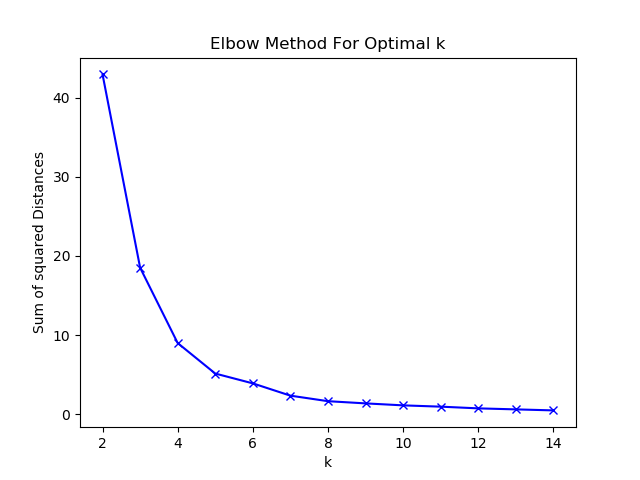
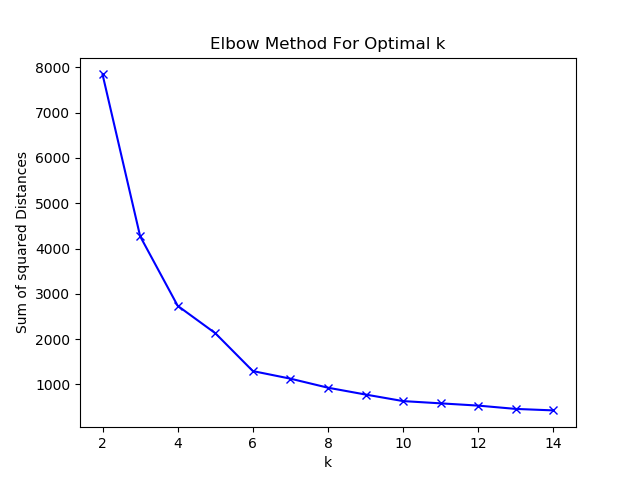
added latest version

diff --git a/co2_emmisions_analysis.py b/co2_emmisions_analysis.py
@@ -53,7 +53,7 @@ def compute_k_means(df, k, show_elbow=False):
     that includes predictions based on KMeans. If show_elbow is set to True, an elbow plot is
     shown to find the best k. 
     """
-    va = VectorAssembler().setInputCols(["change"]).setOutputCol("features")
+    va = VectorAssembler().setInputCols(["2004", "2014", "change"]).setOutputCol("features")
 
     new_df = va.setHandleInvalid("skip").transform(df)
 
